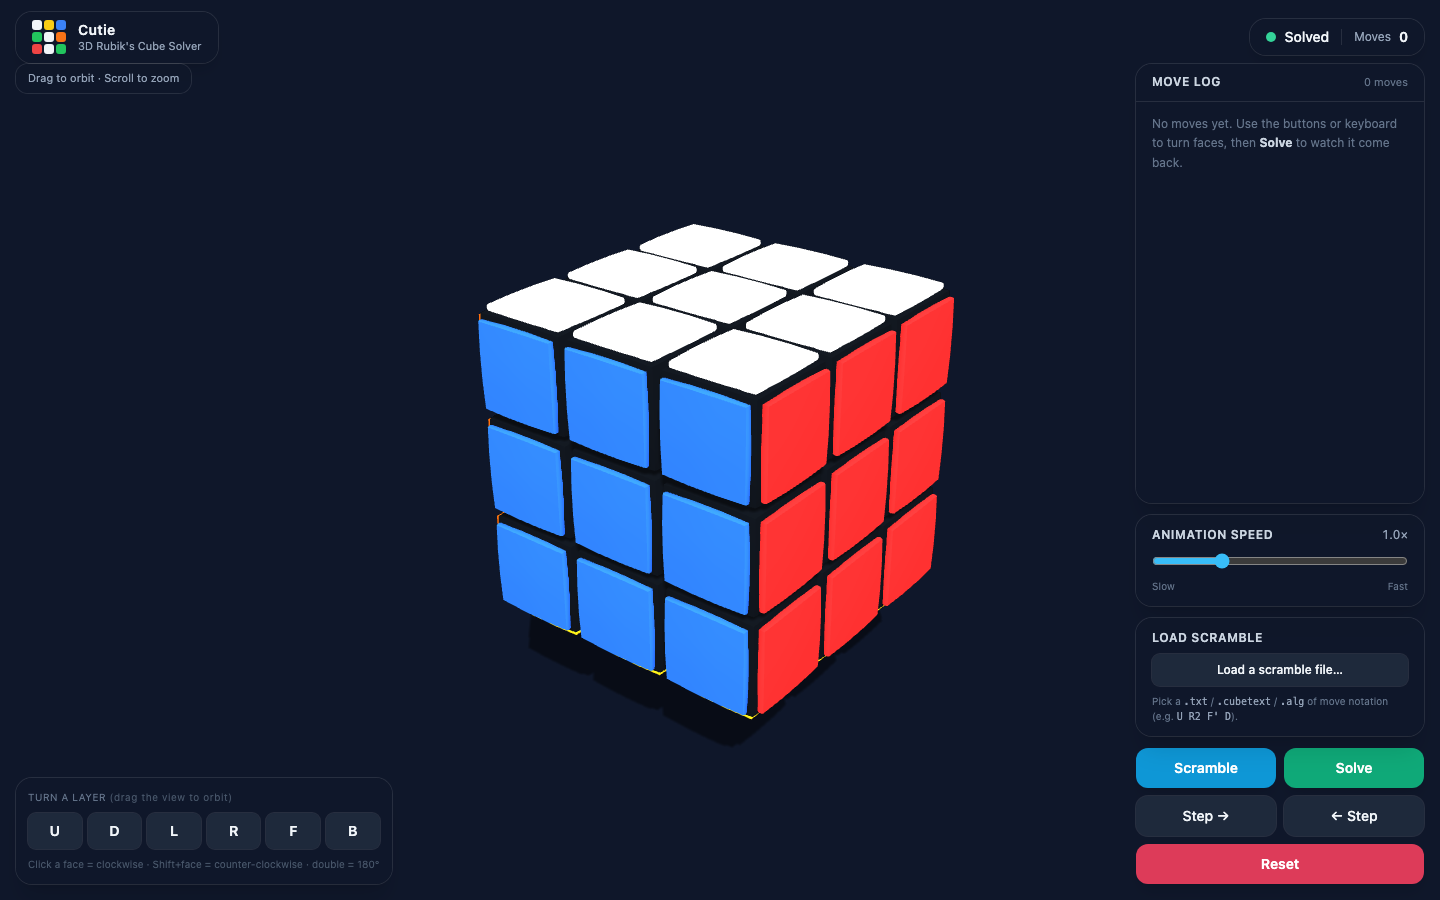
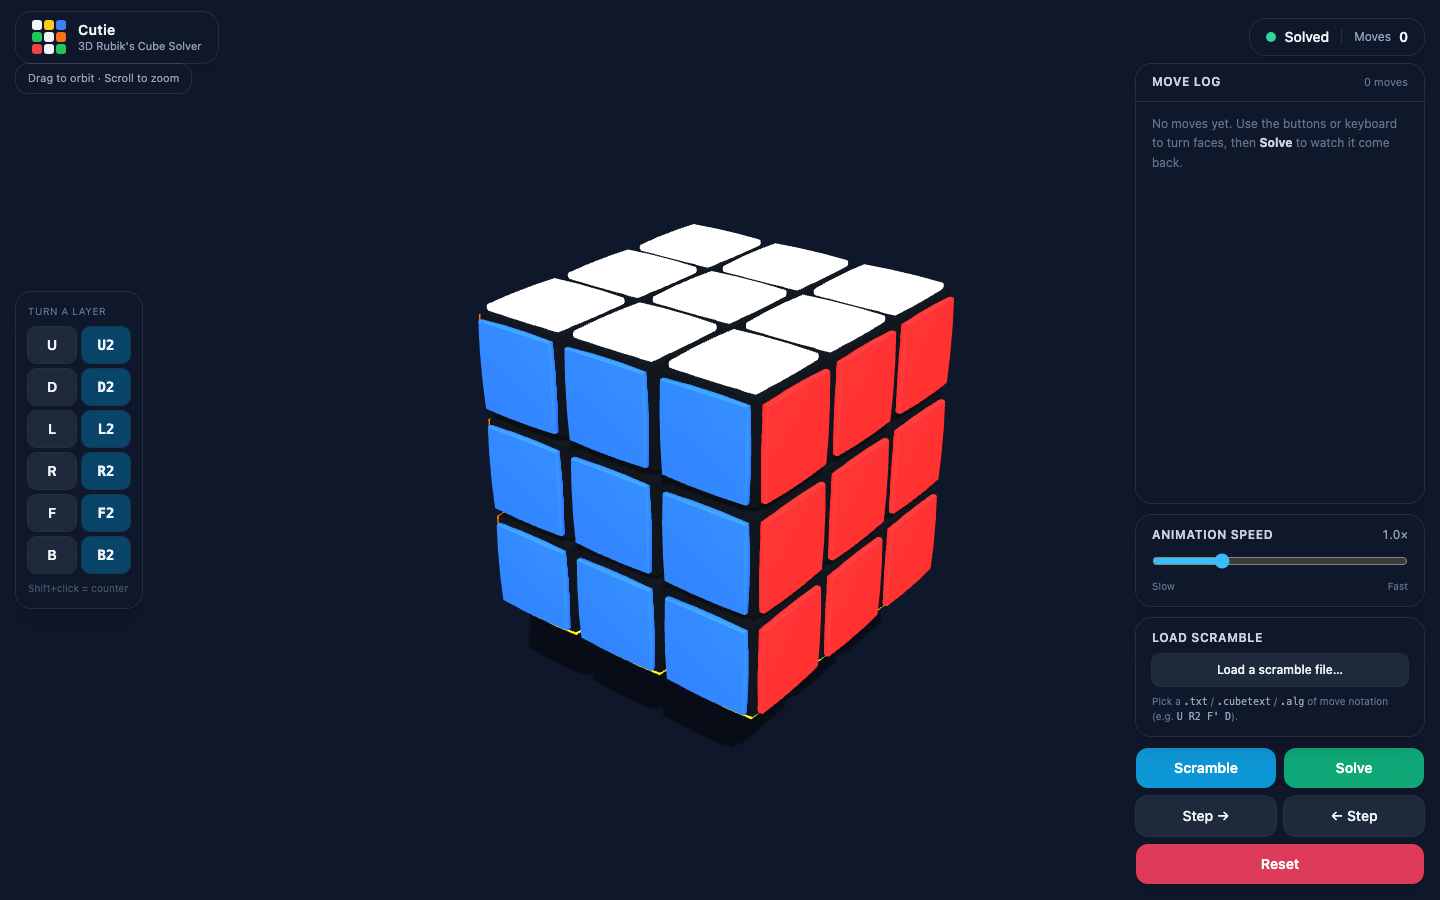
Face buttons: left-edge two-column layout, half-turn column, Safari-safe pointerup
- Move the face buttons from bottom-left to the left edge, vertically centered.
- Two columns: quarter turns (U D L R F B) and dedicated 180 half-turns (U2..B2).
- Remove all double-click detection (DBLCLICK_MS, deferred timer, dblclick,
  e.detail). A click now performs exactly one move immediately.
- Trigger turns on pointerup instead of the synthesized click event: Safari can
  suppress/defer click after a tap, which left buttons looking responsive while
  the face never turned. Keep touch-action:none and add tabindex=-1 (pointer-only
  controls; faces still have keyboard shortcuts).
- Drop the now-unused isPrime helper.
- README: document the new layout and pointerup rationale; fix the two
  inaccurate claims (click-a-face-to-turn, dragging-to-turn).
- Regenerate docs/screenshots/{solved,scrambled,solved-after}.png.

Changed region(s): [[0.0312, 0.3422, 0.0938, 0.6533]]

diff --git a/index.html b/index.html
@@ -28,7 +28,7 @@
     user-select: none; -webkit-tap-highlight-color: transparent;
     /* Stop Safari from treating a tap on the button as a scroll/zoom gesture,
        which otherwise fires pointercancel and suppresses the synthesized
-       click/dblclick that actually drives the face turn. */
+       click that actually drives the face turn. */
     touch-action: none;
   }
   .face-btn.pressed {
@@ -139,12 +139,16 @@
     </section>
   </aside>
 
-  <!-- ======================= Face buttons (bottom-left) ======================= -->
-  <div class="fixed left-4 bottom-4 z-20 pointer-events-none">
+  <!-- ======================= Face buttons (left edge, vertically centered) ======================= -->
+  <!-- Two columns: left = quarter/prime turns (U…B), right = 180° half-turns (U2…B2). -->
+  <div class="fixed left-4 top-1/2 -translate-y-1/2 z-20 pointer-events-none">
     <div class="pointer-events-auto rounded-2xl bg-slate-900/70 backdrop-blur-md ring-1 ring-white/10 shadow-xl p-3 fadein">
-      <p class="text-[10px] uppercase tracking-wider text-slate-500 mb-2">Turn a layer <span class="text-slate-600 normal-case">(drag the view to orbit)</span></p>
-      <div id="face-buttons" class="grid grid-cols-6 gap-1.5"></div>
-      <p class="text-[10px] text-slate-600 mt-2">Click a face = clockwise · Shift+face = counter-clockwise · double = 180°</p>
+      <p class="text-[10px] uppercase tracking-wider text-slate-500 mb-2">Turn a layer</p>
+      <div class="flex items-start gap-1.5">
+        <div id="face-buttons" class="flex flex-col gap-1.5"></div>
+        <div id="half-buttons" class="flex flex-col gap-1.5"></div>
+      </div>
+      <p class="text-[10px] text-slate-600 mt-2">Shift+click = counter</p>
     </div>
   </div>
 
@@ -830,11 +834,14 @@
   }
 
   // --- Face buttons ---
-  // Tactile + label feedback for the six face buttons:
+  // Two columns: quarter/prime turns (U, D, L, R, F, B) and 180° half-turns
+  // (U2, D2, …). Tactile + label feedback for every button:
   //   • Pressed state: a button visibly depresses (see .face-btn.pressed) while
-  //     the pointer is down, and previews the move it will perform — a second
-  //     click within 300ms is a half-turn (U2), otherwise a prime if the
-  //     Shift key is held (U').
+  //     the pointer is down and snaps back on release.
+  //   • A quarter-turn click is 90° clockwise, or 90° counter-clockwise when the
+  //     Shift key is held (U').  A half-turn button is always a 180° turn.
+  //   • There is NO double-click detection: one click performs exactly one move
+  //     immediately, so there is no deferred timer or timing race.
   //   • Ambient prime label: while the Shift key is HELD, every face
   //     button shows its prime label (U', D', …) even with no mouse involved,
   //     and — crucially — the label STAYS primed after a click for as long as
@@ -849,7 +856,6 @@
   // right-click modifier and is intentionally ignored for the UI, and a two-key
   // scheme would leave the label undefined if only one key were released.
   let shiftHeld = false;
-  const isPrime = () => shiftHeld;
   const ambientLabel = (f) => (shiftHeld ? f + "'" : f);
   // Repaint every face button's label to its ambient (resting) value, unless a
   // button is mid-press — its transient preview owns the label until it releases.
@@ -868,16 +874,13 @@
     shiftHeld = false; paintAmbient();
   });
 
-  // Double-click threshold (ms): a face press is a single 90° turn unless a
-  // second press arrives within this window, which makes it a 180° half-turn.
-  // The single-click move is DEFERRED by this long so we never start a 90°
-  // turn and then have to reverse it into a 180° (that looks jarring).  There
-  // is intentionally no UI control here — tune the number by editing the code.
-  const DBLCLICK_MS = 250;
-
-  const pressFace = (b, f, { isDouble }) => {
+  // --- Quarter-turn buttons (left column): U, D, L, R, F, B. ---
+  // A click is one 90° turn immediately: clockwise, or counter-clockwise when
+  // Shift is held. Half-turns live in the right column — there is NO double-click
+  // detection and NO deferred timer, so a click can never be lost to a race.
+  const pressFace = (b, f) => {
     b.classList.add('pressed');
-    b.textContent = isDouble ? f + '2' : ambientLabel(f);
+    b.textContent = ambientLabel(f);
   };
   // On release, snap back to the AMBIENT label, so a prime preview persists
   // while Shift is still held rather than reverting to the plain letter.
@@ -887,62 +890,64 @@
   };
   for (const f of FACE_LETTERS) {
     const b = document.createElement('button');
-    b.textContent = f;
+    b.textContent = ambientLabel(f);
     b.dataset.face = f;
-    b._lastDown = 0;
-    b._singleTimer = null;
-    b.title = f + ' layer';
-    b.className = 'face-btn rounded-lg py-2 text-sm font-semibold text-center bg-slate-800 hover:bg-slate-700 ring-1 ring-white/10 ' +
-      (FACE_COLORS[f] ? '' : '');
-    // --- Label + depress feedback (visual only) ---
-    // On pointer down: a 2nd press within DBLCLICK_MS previews the half-turn
-    // (U2); otherwise show the ambient (prime-aware) label.  This is only a
-    // preview — the ACTUAL move is decided by the debounced handlers below.
-    b.addEventListener('pointerdown', e => {
-      const now = performance.now();
-      const isDouble = now - b._lastDown < DBLCLICK_MS;
-      b._lastDown = now;
-      pressFace(b, f, { isDouble });
+    b.title = f + ' layer — 90° clockwise (Shift: counter)';
+    b.className = 'face-btn w-12 rounded-lg py-2 text-sm font-semibold text-center bg-slate-800 hover:bg-slate-700 ring-1 ring-white/10';
+    // Mouse/touch controls only: the faces also have keyboard shortcuts
+    // (U/D/L/R/F/B, Shift = counter), so keep them out of the tab order and do
+    // not rely on the synthesized `click` event for keyboard activation.
+    b.tabIndex = -1;
+    // All feedback AND the move are driven by Pointer Events, which Safari
+    // delivers reliably.  We deliberately do NOT use the synthesized `click`
+    // event: Safari can suppress or defer it after a pointer interaction (a tiny
+    // movement read as a gesture, or a pointercancel), which left the button
+    // looking responsive while the face never turned and the log never updated.
+    // A Pointer release over the button is the single, reliable trigger.
+    b.addEventListener('pointerdown', () => pressFace(b, f));
+    // Release over the button: snap back to the ambient label AND perform the
+    // turn — counter-clockwise when Shift is held at the moment of release.
+    b.addEventListener('pointerup', e => {
+      releaseFace(b, f);
+      userTurn(f, e.shiftKey ? 2 : 0);
     });
-    // Restore the flat look on any release (or the pointer leaving the button
-    // while still held); the label returns to the ambient prime state.
-    b.addEventListener('pointerup', () => releaseFace(b, f));
+    // A cancel, or the pointer leaving the button while held, un-depresses
+    // WITHOUT turning — only a clean release over the button counts as a turn.
     b.addEventListener('pointercancel', () => releaseFace(b, f));
     b.addEventListener('pointerleave', () => releaseFace(b, f));
-
-    // --- Move decision (single = 90°/prime, native dblclick = 180°) ---
-    // A genuine browser double-click reliably fires the native `dblclick`
-    // event, whereas two separate clicks do NOT (verified in the headless
-    // environment: `.dblclick()` -> 1 dblclick event; two `.click()`s -> 0).
-    // We therefore use `dblclick` as the single source of truth for the 180°
-    // half-turn, which makes it race-free and impossible for a lone click to be
-    // misread as a double:
-    //   • Each lone `click` (detail === 1) DEFERS its 90°/prime turn behind a
-    //     DBLCLICK_MS timer, so we never start a quarter-turn that would have to
-    //     be reversed into a half-turn.  Re-arming the timer on every click also
-    //     COLLAPSES rapid overlapping clicks into a single move, so a burst of
-    //     quick clicks still yields one 90° (e.g. 5 quick clicks -> 4 turns).
-    //   • The 2nd click of a real double (detail > 1) does nothing here; the
-    //     native `dblclick` cancels the pending single timer and performs the
-    //     180°.  Because a real double's `dblclick` arrives almost immediately
-    //     after its clicks, it always wins the race — the 90° timer only ever
-    //     fires for a genuinely lone click.
-    // Both paths are gated by userTurn's busy guard, so no move starts while the
-    // cube is animating.
-    b.addEventListener('click', e => {
-      if (e.detail > 1) return;                          // 2nd+ click of a double; dblclick owns it
-      if (b._singleTimer) clearTimeout(b._singleTimer);  // collapse overlapping clicks into one move
-      const prime = e.shiftKey;                         // prime if Shift held on this click
-      b._singleTimer = setTimeout(() => {
-        b._singleTimer = null;
-        userTurn(f, prime ? 2 : 0);                    // lone click -> 90° (prime if Shift)
-      }, DBLCLICK_MS);
-    });
-    b.addEventListener('dblclick', () => {
-      if (b._singleTimer) { clearTimeout(b._singleTimer); b._singleTimer = null; }
-      userTurn(f, 1);                                   // genuine double -> 180° half-turn
-    });
     faceBtnWrap.appendChild(b);
+  }
+
+  // --- Half-turn buttons (right column): U2, D2, L2, R2, F2, B2. ---
+  // Each release is a single 180° turn. Labels are fixed (a 180° has no
+  // direction), so they do NOT follow the Shift "prime" preview that the
+  // quarter buttons do.
+  const halfBtnWrap = document.getElementById('half-buttons');
+  const pressHalf = (b, f) => {
+    b.classList.add('pressed');
+    b.textContent = f + '2';
+  };
+  const releaseHalf = (b, f) => {
+    b.classList.remove('pressed');
+    b.textContent = f + '2';
+  };
+  for (const f of FACE_LETTERS) {
+    const b = document.createElement('button');
+    b.textContent = f + '2';
+    b.dataset.face = f;
+    b.title = f + ' layer — 180°';
+    b.className = 'face-btn w-12 rounded-lg py-2 text-sm font-semibold font-mono text-center bg-sky-800/70 hover:bg-sky-700 ring-1 ring-sky-400/20';
+    b.tabIndex = -1;
+    // 180° half-turn on a clean Pointer release.  Pointer Events are reliable
+    // in Safari; the synthesized `click` is not.
+    b.addEventListener('pointerdown', () => pressHalf(b, f));
+    b.addEventListener('pointerup', () => {
+      releaseHalf(b, f);
+      userTurn(f, 1);
+    });
+    b.addEventListener('pointercancel', () => releaseHalf(b, f));
+    b.addEventListener('pointerleave', () => releaseHalf(b, f));
+    halfBtnWrap.appendChild(b);
   }
 
   // --- Primary buttons ---

diff --git a/README.md b/README.md
@@ -56,8 +56,8 @@ There are two ways:
    color). The status pill top-right reads **Solved**.
 2. **Scramble it.** Click **Scramble** (or press `S`) to apply a random sequence
    of moves with a quick animation. Status flips to **Scrambled**.
-   — or turn faces by hand using the face buttons / keyboard / by dragging on the
-   cube itself.
+   — or turn faces by hand with the **face buttons** or **keyboard** (dragging on
+   the cube only orbits the camera).
 3. **Solve it.** Click **Solve** (or press `Space`). cubejs computes the shortest
    solution and the cube animates back to order one move at a time, while the
    **Move Log** lights up each move-button in turn as that face turns. Status
@@ -74,8 +74,9 @@ The interface is a dark, glassy overlay floating over the 3D viewport.
 ### 3D viewport (center)
 - **Drag** to orbit the camera around the cube.
 - **Scroll / pinch** to zoom.
-- **Click a face** of the cube to rotate that layer; the turn happens on the live
-  cube.
+
+The cube itself is **view-only** — turns come from the **face buttons** and
+**keyboard shortcuts** (below), not from clicking the cube.
 
 ### Top bar
 - **Cutie** logo (left).
@@ -105,15 +106,22 @@ The interface is a dark, glassy overlay floating over the 3D viewport.
   | **← Step** | Walk back through the move log one move at a time. |
   | **Reset** | Instantly return the cube to the solved state. |
 
-### Face buttons (bottom-left)
-Six buttons — **U D L R F B** — each turn that face's layer on the live cube:
+### Face buttons (left edge)
+Two vertical columns of buttons, centered on the left side of the screen. Each
+button turns its layer on the live cube the moment it is **released**:
 
-- **Click** = clockwise quarter turn (`U`).
-- **Shift + click** = counter-clockwise (`U'`).
-- **Double-click** = 180° half turn (`U2`).
+- **Left column — quarter turns: `U D L R F B`.**
+  - **Click** = clockwise quarter turn (`U`).
+  - **Shift + click** = counter-clockwise (`U'`).
+- **Right column — half turns: `U2 D2 L2 R2 F2 B2`.** Each is a 180° turn.
 
-While **Shift** is held, the buttons display their prime (counter-clockwise)
-label so you can see what the next click will do.
+While **Shift** is held, the quarter-turn buttons display their prime
+(counter-clockwise) label so you can see what the next click will do. The
+half-turn buttons are fixed — a 180° has no direction.
+
+The turns fire on **pointer release**, not the browser's synthesized `click`
+event: Safari can drop that event after a tap, so triggering on `pointerup`
+keeps the buttons responsive across browsers.
 
 ---
 
